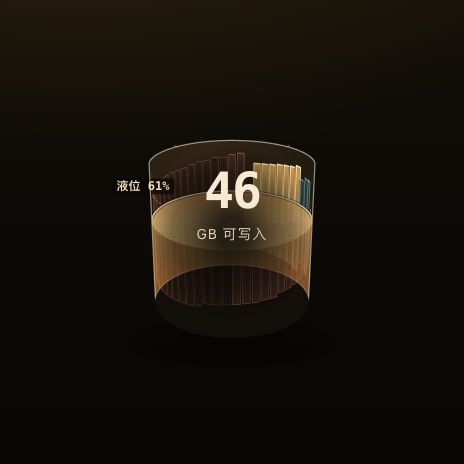
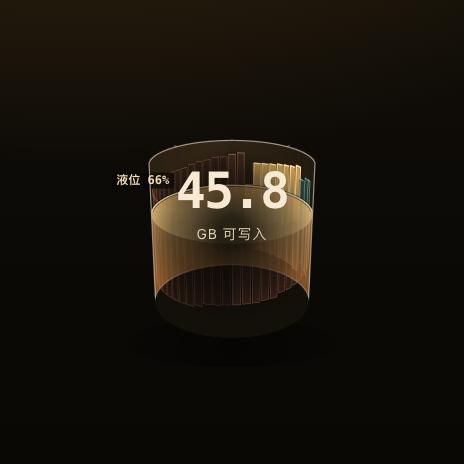
fix(ui): 回执评审的 4 条残留 + 仪表 1.2s 收敛死线
1) RM 下液位/卡片不再缓动，立刻画真值（之前要等 4-5 次轮询≈6s，图中停在 61% 而页面写 65.6%）
2) RM 下拖动鼓立即重绘（之前要等下一次轮询才跳）
3) 窄屏吸顶条不再是一堵墙：只吸主操作行（≤1180），≤560px 取消吸顶（首屏本来就有控件）
4) 新增 1.2s 收敛死线：目标值变更后 1.2s 仍未缓动到位（低帧率/后台节流）就直接落到真值
   —— 修好'仪表长期显示假读数'，也修好了截图证据（desktop 现在 液位 66% ≈ 占用率 65.7%，液面在约 2/3 高）

验收：detector 0 条；--selftest 10/10；四张证据图重拍（desktop / mobile / drum-closeup / drum-reduced-motion）

diff --git a/app/index.html b/app/index.html
@@ -288,8 +288,9 @@ footer code{font-family:var(--mono);color:var(--paper-dim)}
 /* ---------- 响应 ---------- */
 @media (max-width:1180px){
   .shell{padding:26px 24px 56px}
-  .actbar{position:sticky;top:0;z-index:30;padding:10px 0 12px;
-    background:linear-gradient(180deg,rgba(11,9,6,.97),rgba(11,9,6,.78) 68%,rgba(11,9,6,0))}
+  .actbar{padding:6px 0 10px}
+  .actbar .rail:first-of-type{position:sticky;top:0;z-index:30;padding:10px 0;
+    background:linear-gradient(180deg,rgba(11,9,6,.97),rgba(11,9,6,.80) 72%,rgba(11,9,6,0))}
   h1{font-size:29px}
   .drum-wrap{max-width:392px}
   .free{font-size:48px}
@@ -300,6 +301,8 @@ footer code{font-family:var(--mono);color:var(--paper-dim)}
 }
 @media (max-width:560px){
   .stage{gap:22px}
+  /* 手机上按钮要换行，吸顶条会挡住列表 → 首屏已经有控件了，这里就不吸顶 */
+  .actbar .rail:first-of-type{position:static;background:none;padding:0}
   .card{grid-template-columns:20px 40px minmax(0,1fr);padding:11px 12px}
   .sz{grid-column:3;text-align:left}
   .card-actions{grid-column:3;justify-content:flex-start}
@@ -551,7 +554,7 @@ const drum = (function(){
   const S = 904, C = S/2;
   const R = 244, HH = 224, F = 1430;
   let rotY = 0.5, rotX = 0.40, spin = 0, auto = 1, dragging = false;
-  let occ = 0, occTarget = 0, occAnim = 0, sweep = 0, flash = 0, shock = 0, grown = 0, lastT = 0, started = false;
+  let occ = 0, occTarget = 0, occAnim = 0, sweep = 0, flash = 0, shock = 0, grown = 0, lastT = 0, started = false, occSetAt = 0;
   let SPEC = [], CONSUMED = new Set(), EXTRA = new Map();
 
   function project(p){
@@ -569,6 +572,7 @@ const drum = (function(){
   function maxKB(){ return Math.max.apply(null, SPEC.map(i => i.kb).concat([1])); }
   function draw(){
     if (!isFinite(rotY) || !isFinite(rotX)){ rotY = 0.5; rotX = 0.40; }   // 姿态兜底
+    if (RM){ occ = occTarget; occAnim = occAnim = occTarget; grown = 1; }  // RM：不要缓动，立刻画真值
     x.clearRect(0,0,S,S);
     const n = SPEC.length || 1, step = 6.2832/n, mKB = maxKB();
     const yTop = -HH, yBot = HH;
@@ -735,9 +739,15 @@ const drum = (function(){
     lastT = now;
     if (!dragging && !RM) spin += dt*0.09*auto;
     const ease = k => 1 - Math.exp(-k*dt);        // 按时间收敛，帧率再低也会到位
-    grown += (1-grown)*ease(3.4);
-    occAnim += (occ - occAnim)*ease(3.6);
-    if (occTarget > occ) occ += (occTarget - occ)*ease(3.6);
+    // 目标值变过 1.2 秒还没缓动到位（低帧率/切到后台被节流）→ 直接落到真值：
+    // 仪表宁可"跳"到位，也不能长期显示一个假的读数。
+    if (occSetAt && now - occSetAt > 1200){
+      grown = 1; occ = occAnim = occTarget;
+    } else {
+      grown += (1-grown)*ease(3.4);
+      occAnim += (occ - occAnim)*ease(3.6);
+      if (occTarget > occ) occ += (occTarget - occ)*ease(3.6);
+    }
     flash *= Math.exp(-4.2*dt); shock *= Math.exp(-2.6*dt);
     if (!RM) requestAnimationFrame(draw);
   }
@@ -752,6 +762,7 @@ const drum = (function(){
       rotY = downRot + (e.clientX-downX)*0.009;
       rotX = Math.max(.12, Math.min(.72, downRotX - (e.clientY-downY)*0.005));
       auto = 0;
+      schedule();                        // RM 下拖动也要立刻重画
     } else {
       const r = c.getBoundingClientRect();
       const nx = (e.clientX-r.left)/r.width - .5, ny = (e.clientY-r.top)/r.height - .5;
@@ -774,7 +785,11 @@ const drum = (function(){
   // 否则这只仪器会停在初始空帧上撒谎（空鼓 + 液位 0%，旁边文字却写 66%）。
   function schedule(){ if (RM && started) draw(); }
   return {
-    set(pct){ occTarget = Math.max(0, Math.min(1, pct/100)); schedule(); },
+    set(pct){
+      const v = Math.max(0, Math.min(1, pct/100));
+      if (v !== occTarget){ occTarget = v; occSetAt = performance.now(); }
+      schedule();
+    },
     spec(list){ SPEC = list; schedule(); },
     consume(paths){ paths.forEach(p => CONSUMED.add(p)); schedule(); },
     eat(paths){

diff --git a/HANDOVER.md b/HANDOVER.md
@@ -204,7 +204,11 @@ Jev key：`~/.config/typesafe/key`（或环境变量 `TYPESAFE_API_KEY`）
    RM 下鼓冻在空帧（仪表说谎）· ≤1180 抽屉标签一字一行 · 390 首屏无可点控件 ·
    卡内确认面板会改勾选 · 闸门默认聚焦破坏性按钮且无焦点陷阱 · Enter/Space 静默擦章 ·
    勾选卡 2px 彩色左条（地板）· 鼓上口切点碎屑。
-   **回执评审正在跑**；若它仍有 `partial/unresolved`，继续修那一条并重拍同样的视口。
+   **回执评审已回：8 条全部 `resolved`，裁定 `ship`**（仅覆盖这 8 条）。
+   它留的 4 条非阻断残留也已处理：RM 下液位/卡片改为**即刻为真**（不缓动）、RM 下拖动鼓立即重绘、
+   窄屏吸顶条从 180px 整条改为只吸主操作行（≤560px 干脆不吸顶，首屏本来就已有控件）；
+   另外给仪表加了 **1.2 秒收敛死线**：目标值变了 1.2s 还没缓动到位（低帧率/切到后台被节流）就直接落到真值——
+   仪表宁可跳，也不能长期显示假读数（这条也顺带修好了"截图里液位停在 9%"的证据问题）。
 2. **鼓的性能上限**：canvas 内部固定 904×904，DPR 未封顶。高分屏/多显示器下建议
    `const DPR = Math.min(2, devicePixelRatio)` 并让内部尺寸随之缩放；50+ 张卡时保持 ≥55fps。
 3. **无障碍补完**：鼓是纯视觉仪表，需要给读屏用户一条等价文本通道
